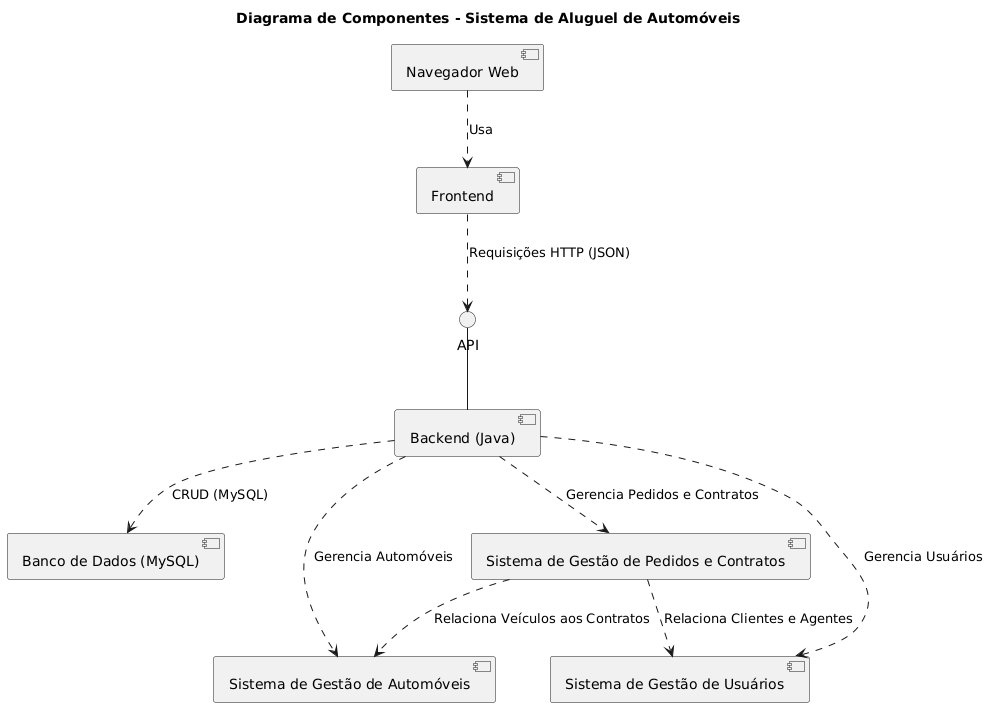
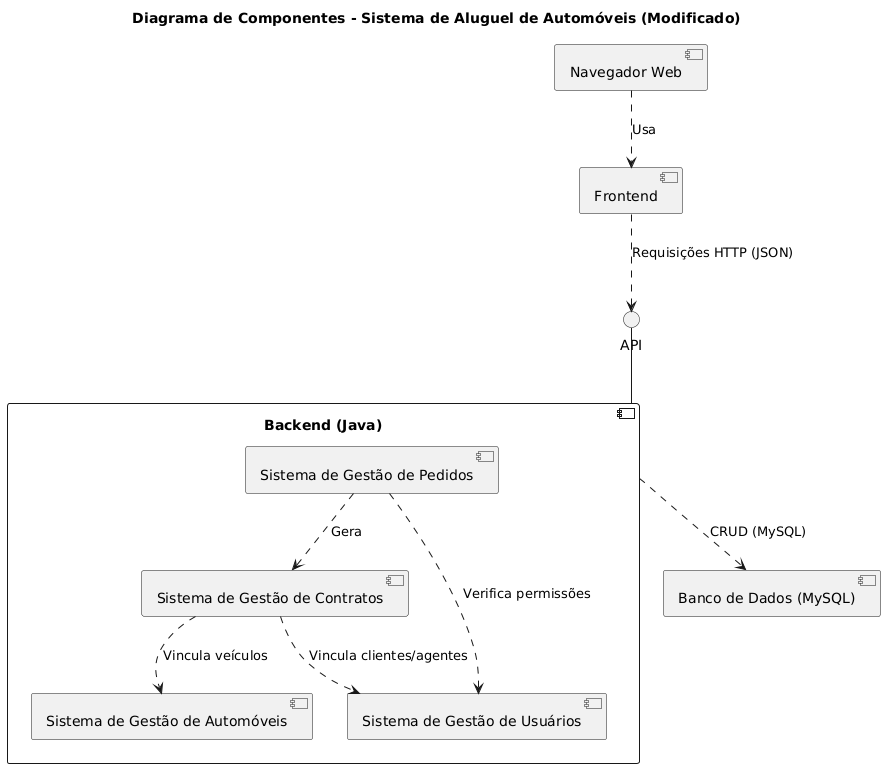
diagramas de pacote e componentes atualizados

diff --git a/project/code/diagramaDePacote.md b/project/code/diagramaDePacote.md
@@ -1,77 +1,21 @@
-```code
-
 @startuml
 package configs {}
 package controllers {
-    class ControlePedido
-    class ControleContrato
-    class ControleAutomovel
-    class ControleUsuario
-    class ControleCliente
-    class ControleAgente
-    class ControleRendimento
 }
 
 package models {
-    class Pedido
-    class Contrato
-    class Automovel
-    abstract Usuario
-    class Cliente
-    abstract Agente
-    class Banco
-    class Empresa
-    class Empregador
-    class Rendimento
-    class Endereco
 }
 
 package repositories {
-    class PedidoRepository
-    class ContratoRepository
-    class AutomovelRepository
-    class UsuarioRepository
-    class ClienteRepository
-    class AgenteRepository
-    class RendimentoRepository
 }
 
 package enumerators {
-    enum TipoContrato
 }
 
 package views {
-    class VisaoPedido
-    class VisaoContrato
-    class VisaoAutomovel
-    class VisaoUsuario
-    class VisaoCliente
-    class VisaoAgente
-    class VisaoRendimento
 }
 
 package dto {
-    package aluguel {
-        class PedidoDTO
-        class ContratoDTO
-    }
-    
-    package automovel {
-        class AutomovelDTO
-    }
-    
-    package cliente {
-        class ClienteDTO
-        class EnderecoDTO
-    }
-    
-    package usuario {
-        class UsuarioDTO
-    }
-    
-    package banco {
-        class BancoDTO
-    }
 }
 
 ' Relacionamentos entre pacotes
@@ -82,22 +26,6 @@ controllers ..> dto
 controllers ..> views
 models ..> enumerators
 
-' Relacionamentos de herança
-Usuario <|-- Cliente
-Usuario <|-- Agente
-Agente <|-- Banco
-Agente <|-- Empresa
-
-' Relacionamentos entre classes
-Cliente "1" -- "0..*" Pedido
-Pedido "1" -- "1" Automovel
-Contrato "1" -- "1" Automovel
-Contrato "1" -- "1" Cliente
-Contrato "1" -- "1" Usuario
-Cliente "1" -- "1" Endereco
-Cliente "1" -- "0..*" Rendimento
-Rendimento "1" -- "1" Empregador
-Banco "0..*" -- "1" Cliente
 
 ' Relacionamentos repositories
 repositories ..> models
@@ -109,5 +37,3 @@ views ..> models
 ' Relacionamentos DTO
 dto ..> models
 @enduml
-
-```

diff --git a/project/code/diagramaDeComponentes.md b/project/code/diagramaDeComponentes.md
@@ -1,23 +1,21 @@
 ```code
 
 @startuml
-title Diagrama de Componentes - Sistema de Aluguel de Automóveis
+title Diagrama de Componentes - Sistema de Aluguel de Automóveis (Modificado)
 
 ' === Componentes Principais ===
 component "Navegador Web" as web
 
 component "Frontend" as Frontend 
 
-component "Backend (Java)" as Backend 
+component "Backend (Java)" as Backend {
+    component "Sistema de Gestão de Pedidos" as GestaoPedidos
+    component "Sistema de Gestão de Contratos" as GestaoContratos
+    component "Sistema de Gestão de Automóveis" as GestaoAutomoveis
+    component "Sistema de Gestão de Usuários" as GestaoUsuarios
+}
 
 component "Banco de Dados (MySQL)" as Database 
-
-component "Sistema de Gestão de Pedidos e Contratos" as GestaoPedidosContratos
-
-component "Sistema de Gestão de Automóveis" as GestaoAutomoveis
-
-component "Sistema de Gestão de Usuários" as GestaoUsuarios
-
 
 ' === Interfaces ===
 interface "API" as api
@@ -30,12 +28,11 @@ api -- Backend
 
 Backend ..> Database : "CRUD (MySQL)"
 
-Backend ..> GestaoPedidosContratos : "Gerencia Pedidos e Contratos"
-Backend ..> GestaoAutomoveis : "Gerencia Automóveis"
-Backend ..> GestaoUsuarios : "Gerencia Usuários"
-
-GestaoPedidosContratos ..> GestaoAutomoveis : "Relaciona Veículos aos Contratos"
-GestaoPedidosContratos ..> GestaoUsuarios : "Relaciona Clientes e Agentes"
+' Relações entre os subsistemas
+GestaoPedidos ..> GestaoContratos : "Gera"
+GestaoContratos ..> GestaoAutomoveis : "Vincula veículos"
+GestaoContratos ..> GestaoUsuarios : "Vincula clientes/agentes"
+GestaoPedidos ..> GestaoUsuarios : "Verifica permissões"
 @enduml
 
 ```
